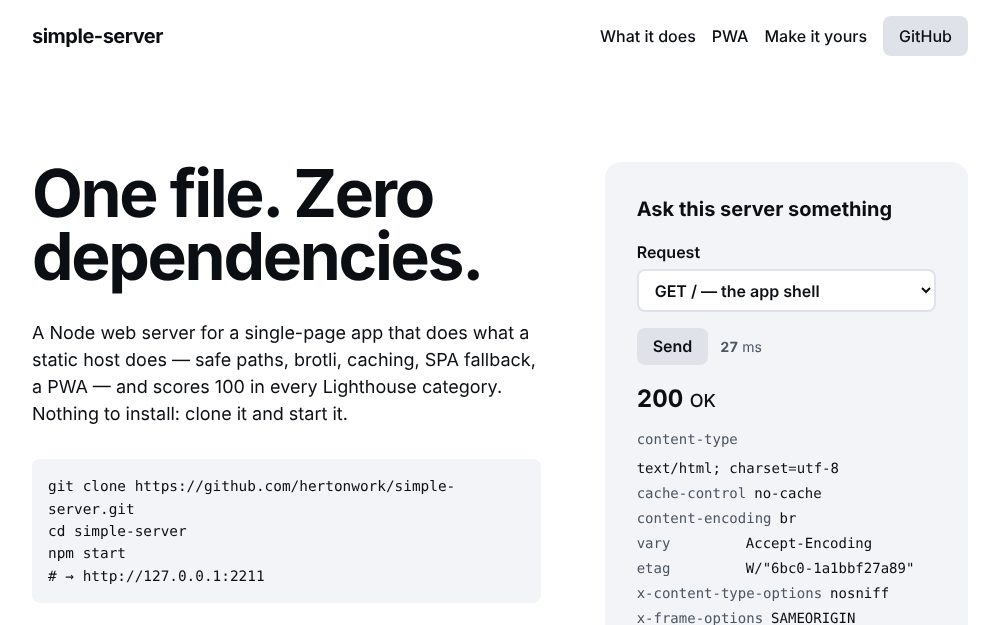
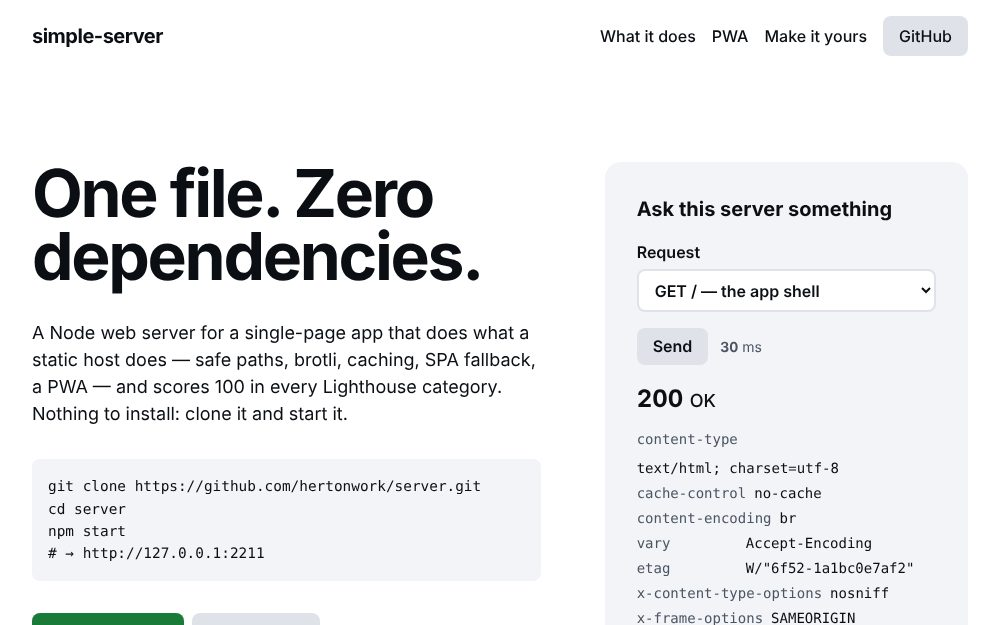
Publish public/ to server.herton.work, rename references to hertonwork/server, Lighthouse fireworks GIF
- .github/workflows/pages.yml: on every push to main, test, build, verify
  public/ is current, then upload public/ to GitHub Pages (Source: GitHub
  Actions; configure-pages tries to switch it). Pages is a static host, so
  the page now says so where it matters: a note in the request inspector
  ("the answers below are GitHub's") and "none (static host)" in the live
  panel. AGENTS.md and the skill explain the split.
- The repository is hertonwork/server now: every URL, the clone snippet
  (cd server) and `npx skills add hertonwork/server` follow. package.json
  homepage → https://server.herton.work.
- site/index.html: canonical, Open Graph and Twitter card (preview.jpg).
  public/: sitemap.xml, robots.txt with the sitemap, the IndexNow key file.
- public/lighthouse.gif: the Lighthouse report's own fireworks (all four
  categories at 100), 5 s loop, 435 KB, from scripts/fireworks.mjs, which
  runs Lighthouse against this server, steps the report's animations
  deterministically in Playwright and assembles the GIF with ImageMagick.
  README leads with it. `npm run fireworks`, `npm run shots` documented.
- Screenshots and preview.jpg retaken for the renamed clone snippet.

diff --git a/public/index.html b/public/index.html
@@ -8,9 +8,19 @@
   <meta name="theme-color" content="#0d1117" media="(prefers-color-scheme: dark)">
   <title>simple-server — a static server for a single-page app, in one Node file</title>
   <meta name="description" content="A zero-dependency Node web server for a single-page app: safe paths, brotli, caching, SPA fallback, PWA. Run npm start and you're serving. 100/100 Lighthouse out of the box.">
+  <link rel="canonical" href="https://server.herton.work/">
   <link rel="icon" href="/favicon.ico" sizes="any">
   <link rel="apple-touch-icon" href="/apple-touch-icon.png">
   <link rel="manifest" href="/manifest.webmanifest">
+  <meta property="og:type" content="website">
+  <meta property="og:site_name" content="simple-server">
+  <meta property="og:title" content="simple-server — one file, zero dependencies, 100/100 Lighthouse">
+  <meta property="og:description" content="A Node web server for a single-page app that does what a static host does — safe paths, brotli, caching, SPA fallback, a PWA. Nothing to install.">
+  <meta property="og:url" content="https://server.herton.work/">
+  <meta property="og:image" content="https://server.herton.work/preview.jpg">
+  <meta property="og:image:width" content="1000">
+  <meta property="og:image:height" content="625">
+  <meta name="twitter:card" content="summary_large_image">
 
   <!-- This page is the server's demo and the shell your app replaces. It is built from site/ by `npm run build`:
        the classes are sscss (vendor/sscss.mjs generates exactly the rules used into a data-sscss style block at the end
@@ -80,7 +90,7 @@
     <a href="#does" class="nu hd m-ib">What it does</a>
     <a href="#pwa" class="nu hd m-ib">PWA</a>
     <a href="#yours" class="nu hd m-ib">Make it yours</a>
-    <a class="r bs2 ci px4 py2 nu ib an-fx btn" href="https://github.com/hertonwork/simple-server">GitHub</a>
+    <a class="r bs2 ci px4 py2 nu ib an-fx btn" href="https://github.com/hertonwork/server">GitHub</a>
   </nav>
 </header>
 
@@ -91,14 +101,15 @@
       <div class="an-rise">
         <h1>One file. Zero dependencies.</h1>
         <p class="t3 mt6">A Node web server for a single-page app that does what a static host does — safe paths, brotli, caching, SPA fallback, a PWA — and scores 100 in every Lighthouse category. Nothing to install: clone it and start it.</p>
-        <pre class="r bs p4 mt6"><code>git clone https://github.com/hertonwork/simple-server.git
-cd simple-server
+        <pre class="r bs p4 mt6"><code>git clone https://github.com/hertonwork/server.git
+cd server
 npm start
 # → http://127.0.0.1:2211</code></pre>
-        <p class="f fw g2 mt6"><a class="r ba cw px4 py3 nu sb ib an-fx" href="https://github.com/hertonwork/simple-server">View on GitHub</a> <a class="r bs2 ci px4 py3 nu sb ib an-fx btn" href="#does">What it does</a></p>
+        <p class="f fw g2 mt6"><a class="r ba cw px4 py3 nu sb ib an-fx" href="https://github.com/hertonwork/server">View on GitHub</a> <a class="r bs2 ci px4 py3 nu sb ib an-fx btn" href="#does">What it does</a></p>
       </div>
       <div class="r2 bs p6 an-rise">
         <p class="t4 b mb4">Ask this server something</p>
+        <p class="t1 mb4" data-show="static" hidden>This copy is on GitHub Pages, so the answers below are GitHub's. Clone it and <code>npm start</code> to ask simple-server itself.</p>
         <label>Request
           <select data-model="path" id="path">
             <option value="/">GET / — the app shell</option>
@@ -129,7 +140,7 @@ npm start
     <div class="wrap mx gr g8 m-c2 wr">
       <div class="sy4 an-rise">
         <h2>What a static host does.</h2>
-        <p>Everything a good static host does and a bare <code>http.createServer</code> doesn't. Two hundred lines, read in ten minutes: <a href="https://github.com/hertonwork/simple-server/blob/main/lib/simple-server.js">lib/simple-server.js</a>. Seventeen tests over a real socket keep it honest: <code>npm test</code>.</p>
+        <p>Everything a good static host does and a bare <code>http.createServer</code> doesn't. Two hundred lines, read in ten minutes: <a href="https://github.com/hertonwork/server/blob/main/lib/simple-server.js">lib/simple-server.js</a>. Seventeen tests over a real socket keep it honest: <code>npm test</code>.</p>
       </div>
       <dl class="gr g5 m-c2 an-rise">
         <div><dt class="sb">Safe paths</dt><dd class="t1 mt1">Every URL resolves inside <code>public/</code>. <code>../</code>, encoded dots, doubled slashes and dotfiles can't escape it; <code>/.well-known/</code> can.</dd></div>
@@ -201,7 +212,7 @@ npm run build        # site/ → public/ (this page, the service worker)</code><
         <div class="sy4 an-rise">
           <p class="t4 b">Your agent</p>
           <p>The repository is laid out for coding agents as much as for people. <code>AGENTS.md</code> explains the layout, the rules and the commands; <code>skills/simple-server</code> teaches an agent to build and verify a page the way this one was built; <code>npm run check</code> is the whole verification — tests, a static preflight of the pages, Lighthouse against the real server.</p>
-          <pre class="r bg p4"><code>npx skills add hertonwork/simple-server
+          <pre class="r bg p4"><code>npx skills add hertonwork/server
 npm run check        # tests + preflight (+ Lighthouse when installed)</code></pre>
         </div>
       </div>
@@ -252,7 +263,7 @@ app.node = h.node;
 app.started = new Date(h.started).toLocaleString(undefined, { dateStyle: 'medium', timeStyle: 'short' });
 app.live = 'up'; app.static = false;
 } catch {
-app.live = 'unreachable'; app.static = true;
+app.live = 'none (static host)'; app.static = true;
 }
 }
 const tick = () => { if (!document.hidden) health(); };

diff --git a/site/index.html b/site/index.html
@@ -8,9 +8,19 @@
   <meta name="theme-color" content="#0d1117" media="(prefers-color-scheme: dark)">
   <title>simple-server — a static server for a single-page app, in one Node file</title>
   <meta name="description" content="A zero-dependency Node web server for a single-page app: safe paths, brotli, caching, SPA fallback, PWA. Run npm start and you're serving. 100/100 Lighthouse out of the box.">
+  <link rel="canonical" href="https://server.herton.work/">
   <link rel="icon" href="/favicon.ico" sizes="any">
   <link rel="apple-touch-icon" href="/apple-touch-icon.png">
   <link rel="manifest" href="/manifest.webmanifest">
+  <meta property="og:type" content="website">
+  <meta property="og:site_name" content="simple-server">
+  <meta property="og:title" content="simple-server — one file, zero dependencies, 100/100 Lighthouse">
+  <meta property="og:description" content="A Node web server for a single-page app that does what a static host does — safe paths, brotli, caching, SPA fallback, a PWA. Nothing to install.">
+  <meta property="og:url" content="https://server.herton.work/">
+  <meta property="og:image" content="https://server.herton.work/preview.jpg">
+  <meta property="og:image:width" content="1000">
+  <meta property="og:image:height" content="625">
+  <meta name="twitter:card" content="summary_large_image">
 
   <!-- This page is the server's demo and the shell your app replaces. It is built from site/ by `npm run build`:
        the classes are sscss (vendor/sscss.mjs generates exactly the rules used into a data-sscss style block at the end
@@ -79,7 +89,7 @@
     <a href="#does" class="nu hd m-ib">What it does</a>
     <a href="#pwa" class="nu hd m-ib">PWA</a>
     <a href="#yours" class="nu hd m-ib">Make it yours</a>
-    <a class="r bs2 ci px4 py2 nu ib an-fx btn" href="https://github.com/hertonwork/simple-server">GitHub</a>
+    <a class="r bs2 ci px4 py2 nu ib an-fx btn" href="https://github.com/hertonwork/server">GitHub</a>
   </nav>
 </header>
 
@@ -90,14 +100,15 @@
       <div class="an-rise">
         <h1>One file. Zero dependencies.</h1>
         <p class="t3 mt6">A Node web server for a single-page app that does what a static host does — safe paths, brotli, caching, SPA fallback, a PWA — and scores 100 in every Lighthouse category. Nothing to install: clone it and start it.</p>
-        <pre class="r bs p4 mt6"><code>git clone https://github.com/hertonwork/simple-server.git
-cd simple-server
+        <pre class="r bs p4 mt6"><code>git clone https://github.com/hertonwork/server.git
+cd server
 npm start
 # → http://127.0.0.1:2211</code></pre>
-        <p class="f fw g2 mt6"><a class="r ba cw px4 py3 nu sb ib an-fx" href="https://github.com/hertonwork/simple-server">View on GitHub</a> <a class="r bs2 ci px4 py3 nu sb ib an-fx btn" href="#does">What it does</a></p>
+        <p class="f fw g2 mt6"><a class="r ba cw px4 py3 nu sb ib an-fx" href="https://github.com/hertonwork/server">View on GitHub</a> <a class="r bs2 ci px4 py3 nu sb ib an-fx btn" href="#does">What it does</a></p>
       </div>
       <div class="r2 bs p6 an-rise">
         <p class="t4 b mb4">Ask this server something</p>
+        <p class="t1 mb4" data-show="static" hidden>This copy is on GitHub Pages, so the answers below are GitHub's. Clone it and <code>npm start</code> to ask simple-server itself.</p>
         <label>Request
           <select data-model="path" id="path">
             <option value="/">GET / — the app shell</option>
@@ -128,7 +139,7 @@ npm start
     <div class="wrap mx gr g8 m-c2 wr">
       <div class="sy4 an-rise">
         <h2>What a static host does.</h2>
-        <p>Everything a good static host does and a bare <code>http.createServer</code> doesn't. Two hundred lines, read in ten minutes: <a href="https://github.com/hertonwork/simple-server/blob/main/lib/simple-server.js">lib/simple-server.js</a>. Seventeen tests over a real socket keep it honest: <code>npm test</code>.</p>
+        <p>Everything a good static host does and a bare <code>http.createServer</code> doesn't. Two hundred lines, read in ten minutes: <a href="https://github.com/hertonwork/server/blob/main/lib/simple-server.js">lib/simple-server.js</a>. Seventeen tests over a real socket keep it honest: <code>npm test</code>.</p>
       </div>
       <dl class="gr g5 m-c2 an-rise">
         <div><dt class="sb">Safe paths</dt><dd class="t1 mt1">Every URL resolves inside <code>public/</code>. <code>../</code>, encoded dots, doubled slashes and dotfiles can't escape it; <code>/.well-known/</code> can.</dd></div>
@@ -200,7 +211,7 @@ npm run build        # site/ → public/ (this page, the service worker)</code><
         <div class="sy4 an-rise">
           <p class="t4 b">Your agent</p>
           <p>The repository is laid out for coding agents as much as for people. <code>AGENTS.md</code> explains the layout, the rules and the commands; <code>skills/simple-server</code> teaches an agent to build and verify a page the way this one was built; <code>npm run check</code> is the whole verification — tests, a static preflight of the pages, Lighthouse against the real server.</p>
-          <pre class="r bg p4"><code>npx skills add hertonwork/simple-server
+          <pre class="r bg p4"><code>npx skills add hertonwork/server
 npm run check        # tests + preflight (+ Lighthouse when installed)</code></pre>
         </div>
       </div>

diff --git a/public/sw.js b/public/sw.js
@@ -7,7 +7,7 @@
 //             navigations  → network, and the cached shell when the network is away (the app opens offline)
 //             other files  → cache first, refreshed in the background (stale-while-revalidate)
 //   message   'skip' → activate the waiting version now (the page's "Reload" button)
-const VERSION = 'b29c7fce';
+const VERSION = '0f4ab04f';
 const CACHE = 'simple-server-' + VERSION;
 const PRECACHE = ["/index.html","/404.html","/manifest.webmanifest","/favicon.ico","/apple-touch-icon.png","/android-chrome-192x192.png","/android-chrome-512x512.png","/icon-maskable-512.png"];
 const SHELL = '/index.html';

diff --git a/public/404.html b/public/404.html
@@ -29,7 +29,7 @@
 
 <header class="wrap mx f ac g4 py4">
   <a href="/" class="t4 b tt nu x">simple-server</a>
-  <nav class="f ac g4 md nw" aria-label="Site"><a class="nu" href="https://github.com/hertonwork/simple-server">GitHub</a></nav>
+  <nav class="f ac g4 md nw" aria-label="Site"><a class="nu" href="https://github.com/hertonwork/server">GitHub</a></nav>
 </header>
 
 <main class="wrap mx vh py10">

diff --git a/site/404.html b/site/404.html
@@ -28,7 +28,7 @@
 
 <header class="wrap mx f ac g4 py4">
   <a href="/" class="t4 b tt nu x">simple-server</a>
-  <nav class="f ac g4 md nw" aria-label="Site"><a class="nu" href="https://github.com/hertonwork/simple-server">GitHub</a></nav>
+  <nav class="f ac g4 md nw" aria-label="Site"><a class="nu" href="https://github.com/hertonwork/server">GitHub</a></nav>
 </header>
 
 <main class="wrap mx vh py10">

diff --git a/site/app.js b/site/app.js
@@ -39,7 +39,7 @@
       app.started = new Date(h.started).toLocaleString(undefined, { dateStyle: 'medium', timeStyle: 'short' });
       app.live = 'up'; app.static = false;
     } catch {
-      app.live = 'unreachable'; app.static = true;
+      app.live = 'none (static host)'; app.static = true;
     }
   }
   const tick = () => { if (!document.hidden) health(); };

diff --git a/AGENTS.md b/AGENTS.md
@@ -18,7 +18,8 @@ verifies everything.
 | `scripts/build.mjs` | `site/` → `public/`: inlines Minim and `app.js`, generates the sscss block for each page, versions the service worker | yes |
 | `scripts/check.mjs` | the whole verification: tests, build (fails in CI when `public/` is stale), preflight, Lighthouse against this server | yes |
 | `scripts/vendor.mjs`, `vendor/` | the three vendored tools: `minim.min.js` (Minim), `sscss.mjs` (the CSS generator), `preflight.mjs` (the Minim page checker). Refresh with `npm run vendor` | vendored files: no, refresh them |
-| `scripts/shots.mjs` | manifest screenshots and the README preview, from this server (needs Playwright; dev-only) | yes |
+| `scripts/shots.mjs`, `scripts/fireworks.mjs` | manifest screenshots + `preview.jpg`, and the Lighthouse fireworks GIF, both from this server (need Playwright, the GIF also `lighthouse` and ImageMagick; dev-only) | yes |
+| `.github/workflows/ci.yml`, `pages.yml` | CI runs `npm run check` on every PR; Pages publishes `public/` to server.herton.work on every push to `main` | yes |
 | `skills/simple-server/` | the agent skill: how to use this server for a project and how to build and verify a page the way this one was | yes |
 
 ## Commands
@@ -32,6 +33,8 @@ npm run check           # tests + build + preflight + Lighthouse (if `lighthouse
 npm run check -- --no-lighthouse
 npm run cert            # self-signed localhost pair → the next `npm start` is https
 npm run vendor          # refresh vendor/ from the Minim and sscss repositories
+npm run shots           # manifest screenshots + preview.jpg (Playwright)
+npm run fireworks       # public/lighthouse.gif (Playwright + lighthouse + ImageMagick)
 ```
 
 ## Rules that keep this project what it is
@@ -57,12 +60,15 @@ npm run vendor          # refresh vendor/ from the Minim and sscss repositories
 - **Design as a decision.** Large type in the system font, sections that each have their own composition, surfaces
   separated by a tone step, no gradients, hairlines or emoji in content, one accent action per screen. The rules are
   `references/design.md` in the Minim page skill; the page follows them.
+- **server.herton.work is GitHub Pages, not this server.** It serves `public/` statically, so there `/api/health` is a
+  404 and the page shows its static-host notes (that is by design — don't "fix" them away). Headers, compression, the
+  SPA fallback and the routes are only seen where `npm start` runs; measure those locally with `npm run check`.
 - Commits are plain; PRs explain what changed and why in the body.
 
 ## Using this server for your own app
 
 Replace `public/` with your build (keep `404.html` if you want a styled not-found page) and `npm start`. For a page in
 the same style as the bundled one — sscss classes, Minim bindings, a generated stylesheet, Lighthouse 100 — use the
-skill in `skills/simple-server/` (`npx skills add hertonwork/simple-server`), which hands off to the
+skill in `skills/simple-server/` (`npx skills add hertonwork/server`), which hands off to the
 [minim-page](https://github.com/hertonwork/minim/tree/main/skills/minim-page) and
 [sscss](https://github.com/hertonwork/sscss/tree/main/skills/sscss) skills for the page itself.

diff --git a/README.md b/README.md
@@ -10,14 +10,17 @@ A static web server for a single-page app, in one Node file, with nothing to ins
 * **Agent friendly** — `AGENTS.md`, a skill, one command that verifies everything.
 
 <p align="center">
-<img src="public/preview.jpg" alt="The bundled page: a request inspector that asks the server about itself" width="700">
+<img src="public/lighthouse.gif" alt="Lighthouse: 100 Performance, 100 Accessibility, 100 Best Practices, 100 SEO — with fireworks" width="800">
 </p>
+
+Live at **[server.herton.work](https://server.herton.work)** — that copy is GitHub Pages serving `public/`, so the
+live-status panel says so; clone it and `npm start` to see the server itself answer.
 
 ## Run it
 
 ```sh
-git clone https://github.com/hertonwork/simple-server.git
-cd simple-server
+git clone https://github.com/hertonwork/server.git
+cd server
 npm start            # → http://127.0.0.1:2211
 ```
 
@@ -100,7 +103,11 @@ classes; the build generates exactly the rules the page uses, 2.5 KB) and [Minim
 npm run build        # site/ → public/index.html, public/404.html, public/sw.js
 npm run check        # + preflight + Lighthouse (npm i -g lighthouse; CHROME_PATH if Chrome isn't found)
 npm run vendor       # refresh vendor/ (Minim, the sscss generator, the preflight) from their repositories
+npm run shots        # manifest screenshots + preview.jpg from the running server (Playwright)
+npm run fireworks    # the Lighthouse report's fireworks as public/lighthouse.gif (Playwright + ImageMagick)
 ```
+
+Every push to `main` publishes `public/` to GitHub Pages (`.github/workflows/pages.yml`).
 
 ## The PWA
 
@@ -120,7 +127,7 @@ The repository is laid out to be worked on by coding agents as much as by people
 * [`AGENTS.md`](AGENTS.md) — the layout, the commands, and the rules that keep the project what it is (zero
   dependencies, nothing served outside `public/`, never a crash, the page stays at 100).
 * [`skills/simple-server/`](skills/simple-server/SKILL.md) — a skill that teaches an agent to serve a project with it
-  and to build and verify a page the way the bundled one was built. `npx skills add hertonwork/simple-server`.
+  and to build and verify a page the way the bundled one was built. `npx skills add hertonwork/server`.
 * `npm run check` — tests, build, preflight and Lighthouse in one command, the same thing CI runs.
 
 ## License

diff --git a/skills/simple-server/SKILL.md b/skills/simple-server/SKILL.md
@@ -6,7 +6,7 @@ description: >-
   /api/health) and ship it as an installable PWA with a versioned service worker, all scoring 100/100/100/100 on
   Lighthouse. Use this whenever someone needs to serve a built SPA or static folder with Node and nothing to install,
   wants a static server "without express", needs SPA fallback / history-mode routing on a plain server, wants a service
-  worker with precache, offline shell and an update prompt, or is working inside the hertonwork/simple-server
+  worker with precache, offline shell and an update prompt, or is working inside the hertonwork/server
   repository. Pairs with the minim-page and sscss skills for the page itself.
 ---
 
@@ -20,7 +20,7 @@ shell a project replaces.
 ## 1. Serve a project
 
 ```sh
-git clone https://github.com/hertonwork/simple-server.git my-app && cd my-app
+git clone https://github.com/hertonwork/server.git my-app && cd my-app
 rm -rf public/* && cp -r ../dist/* public/      # your build; keep a 404.html if you want a styled not-found page
 npm start                                        # http://127.0.0.1:2211
 ```
@@ -103,6 +103,13 @@ Work in this order:
   is waiting → show the prompt; the Reload button posts `'skip'` and reloads on `controllerchange` **only then** (the
   first install also changes the controller — don't reload on it). `beforeinstallprompt` → an Install button.
 - The server sends `sw.js` and the manifest with `no-cache`, so a deploy is seen on the next visit, not a day later.
+
+### Publishing the page
+
+`.github/workflows/pages.yml` uploads `public/` to GitHub Pages on every push to `main` (Settings → Pages → Source
+"GitHub Actions"; the custom domain is set there too). Pages is a static host: `/api/*` is a 404 there, the page shows
+its static-host notes, and `404.html` is served for unknown paths (including client-side routes — the SPA fallback is
+the server's, not Pages'). The server itself runs wherever `npm start` runs.
 
 ## 3. Checklist before a PR
 
